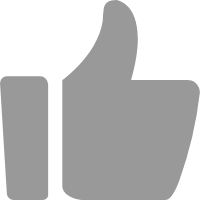
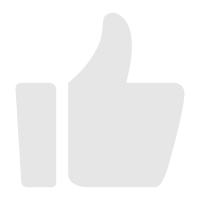
活动详情点赞切换

diff --git a/ranDian_dxf_smallRoutine/dxcs/pages/activity_detail/activity_detail.js b/ranDian_dxf_smallRoutine/dxcs/pages/activity_detail/activity_detail.js
@@ -8,25 +8,65 @@ Page({
     //活动详情
     activityDetails:null,
     //图片
-    imgs:[]
+    imgs:[],
+    currentPostId: ''
 
   },
 
-  /**
-   * 生命周期函数--监听页面加载
-   */
-  onLoad: function (options) {
-    let activityId = options.id;
-    this.getActivityDetails(activityId);
+  changeGoodStatus(activityId){
+    // 设置活动id为页面共享
+    this.setData({
+      currentPostId: activityId
+    });
+    // 获取缓存
+    var goodList = wx.getStorageSync('goodList');
+    if (goodList) {
+      // 获取活动收藏状态
+      var goodStatus = goodList[activityId];
+      // 更新活动收藏状态
+      this.setData({
+        goodStatus: goodStatus
+      });
+    } else {
+      // 如果不存在缓存就设置一个新缓存
+      var goodList = {};
+      wx.setStorageSync('goodList', goodList);
+    }
+  },
+
+
+  ongoodTap: function (event) {
+    var goodList = wx.getStorageSync('goodList');
+    // 获取活动收藏状态
+    var goodStatus = goodList[this.data.currentPostId];
+    // 活动收藏状态切换
+    goodStatus = !goodStatus;
+    // 存储活动收藏状态
+    goodList[this.data.currentPostId] = goodStatus;
+    // 三个参数为,Storage键、值、活动收藏状态
+    this.showToast('goodList', goodList, goodStatus);
+  },
+
+  showToast: function (key, value, status) {
+
+    wx.setStorageSync(key, value);
+    // 更新活动收藏状态
+    this.setData({
+      goodStatus: status
+    });
+    // 显示提示
+    wx.showToast({
+      title: status ? "点赞成功" : "取消成功"
+    })
   },
 
   getActivityDetails(activityId){
     let that = this;
     wx.request({
       method:'POST',
-      data: {
-        id: activityId
-      },
+      // data: {
+      //   id: activityId
+      // },
       url:"http://mock-api.com/VKyv1Gzw.mock/activity/getInfo",
       success(res){
         if(res.data.status===1){
@@ -41,6 +81,17 @@ Page({
       }
     })
   },
+
+  /**
+   * 生命周期函数--监听页面加载
+   */
+  onLoad: function (options) {
+    let activityId = options.id;
+    this.getActivityDetails(activityId);
+    this.changeGoodStatus(activityId);
+  },
+
+  
 
   /**
    * 生命周期函数--监听页面初次渲染完成
